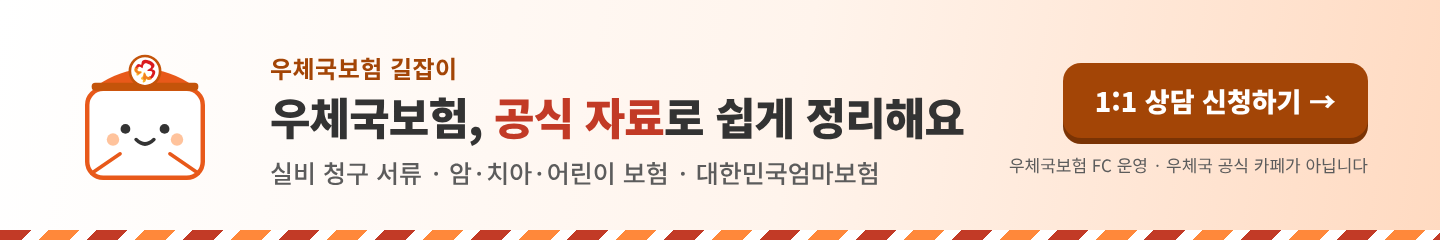
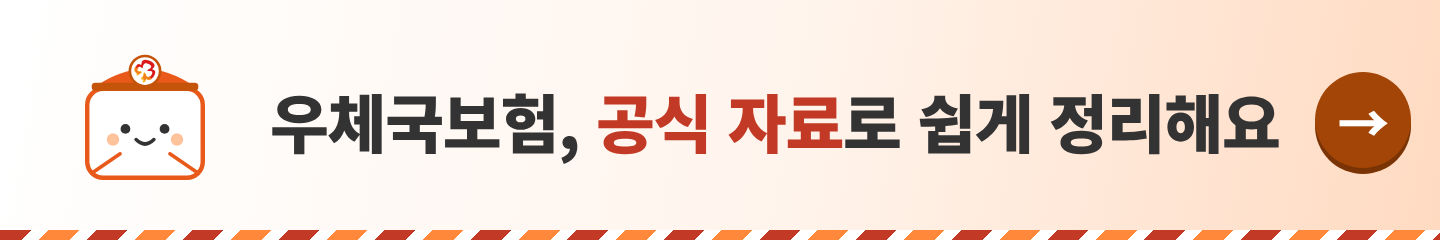
카페 배너를 한 줄 문구로 간결하게 다시 만듦
Claude-Session: https://claude.ai/code/session_01NDkHExbD7sg1GRU5d1kqZi

Changed region(s): [[0.1875, 0.2625, 1.0, 0.7875], [0.1875, 0.2333, 0.3125, 0.35]]

diff --git a/cafe/assets/banner-main.html b/cafe/assets/banner-main.html
@@ -4,7 +4,7 @@ body{width:1440px;height:240px;font-family:'Noto Sans CJK KR','Noto Sans KR',san
 .b{position:relative;width:1440px;height:240px;background:linear-gradient(100deg,#FFFFFF 0%,#FFF4EC 55%,#FFDAC1 100%);display:flex;align-items:center;padding:0 72px 0 56px;gap:36px}
 .b::after{content:"";position:absolute;left:0;right:0;bottom:0;height:10px;background:repeating-linear-gradient(135deg,#C23A26 0 22px,#fff 22px 34px,#FF883A 34px 56px,#fff 56px 68px)}
 .char{width:178px;height:160px;flex:none}
-.txt{flex:1;min-width:0}
+.one{flex:1;white-space:nowrap;font-size:64px;font-weight:900;color:#333;letter-spacing:-.02em}.one b{color:#C23A26}.go{flex:none;width:96px;height:96px;border-radius:50%;background:#A34506;color:#fff;font-size:52px;font-weight:800;display:flex;align-items:center;justify-content:center;box-shadow:0 6px 0 #7a3304}
 .label{font-size:24px;font-weight:700;color:#A34506;letter-spacing:.02em}
 .h{white-space:nowrap;margin-top:6px;font-size:44px;font-weight:900;color:#333;letter-spacing:-.02em;line-height:1.15}
 .h b{color:#C23A26}
@@ -24,6 +24,6 @@ body{width:1440px;height:240px;font-family:'Noto Sans CJK KR','Noto Sans KR',san
 <path d="M90 112 Q100 122 110 112" fill="none" stroke="#333" stroke-width="4" stroke-linecap="round"/>
 <circle cx="64" cy="112" r="7" fill="#FF883A" opacity=".5"/><circle cx="136" cy="112" r="7" fill="#FF883A" opacity=".5"/>
 </svg>
-<div class="txt"><p class="label">우체국보험 길잡이</p><p class="h">우체국보험, <b>공식 자료</b>로 쉽게 정리해요</p><p class="s">실비 청구 서류 · 암·치아·어린이 보험 · 대한민국엄마보험</p></div>
-<div class="cta"><p class="btn">1:1 상담 신청하기 →</p><p class="note">우체국보험 FC 운영 · 우체국 공식 카페가 아닙니다</p></div>
+<p class="one">우체국보험, <b>공식 자료</b>로 쉽게 정리해요</p>
+<span class="go" aria-hidden="true">→</span>
 </div></body></html>
